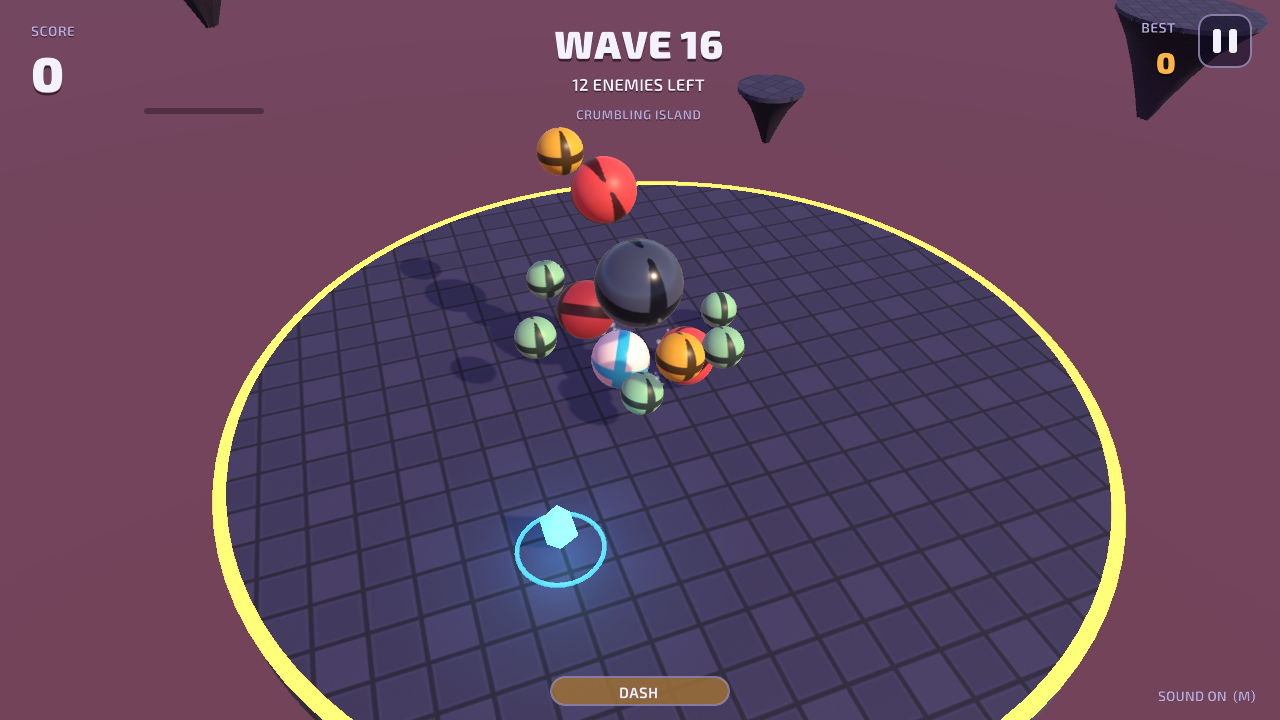
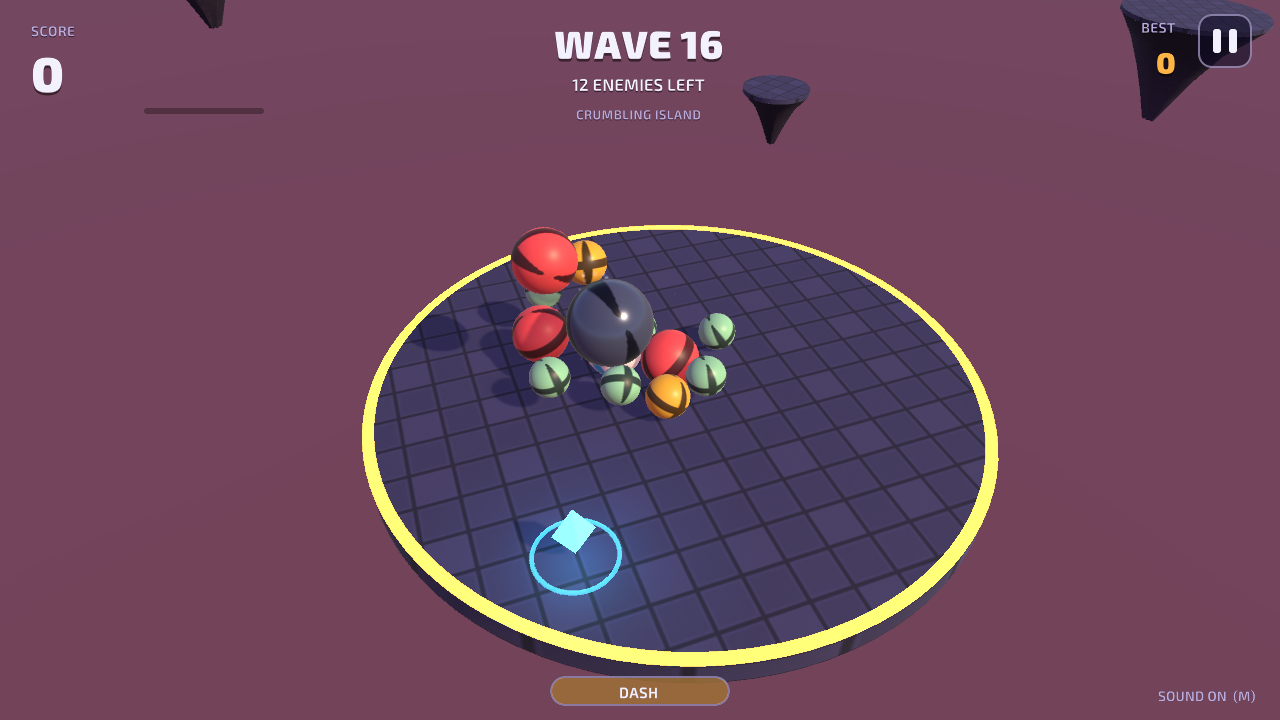
fix(docs): capture the crumbling island after its edge has receded
The scenario fast-forwarded during the countdown, which does not count toward the crumble, so the screenshot showed a full island.

diff --git a/Assets/Scripts/Game/ScreenshotScenarios.cs b/Assets/Scripts/Game/ScreenshotScenarios.cs
@@ -144,7 +144,8 @@ namespace RingOut.Game
                     yield return Run(11, 2.6f);
                     break;
                 case "crumbling":
-                    yield return Run(16, 1.4f);
+                    // Wait out the countdown first: only the fight phase counts toward the crumble.
+                    yield return Run(16, 1.9f);
                     // Fast-forward the fight so the edge has crumbled in.
                     director.Match.Step(25f);
                     director.ScriptedMove = new Vector3(0.3f, 0f, -1f).normalized;
